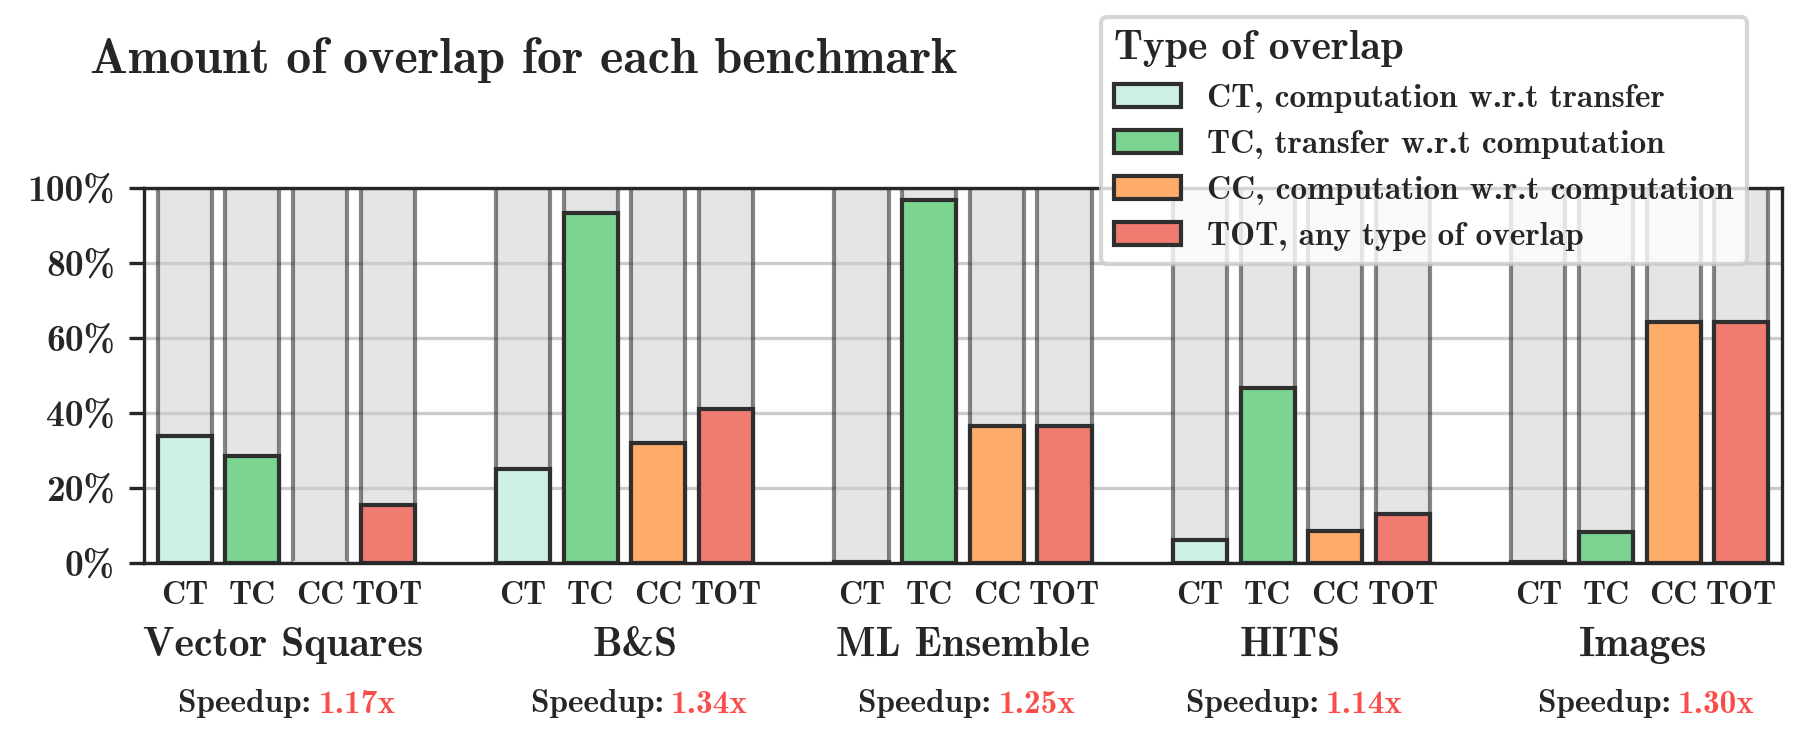
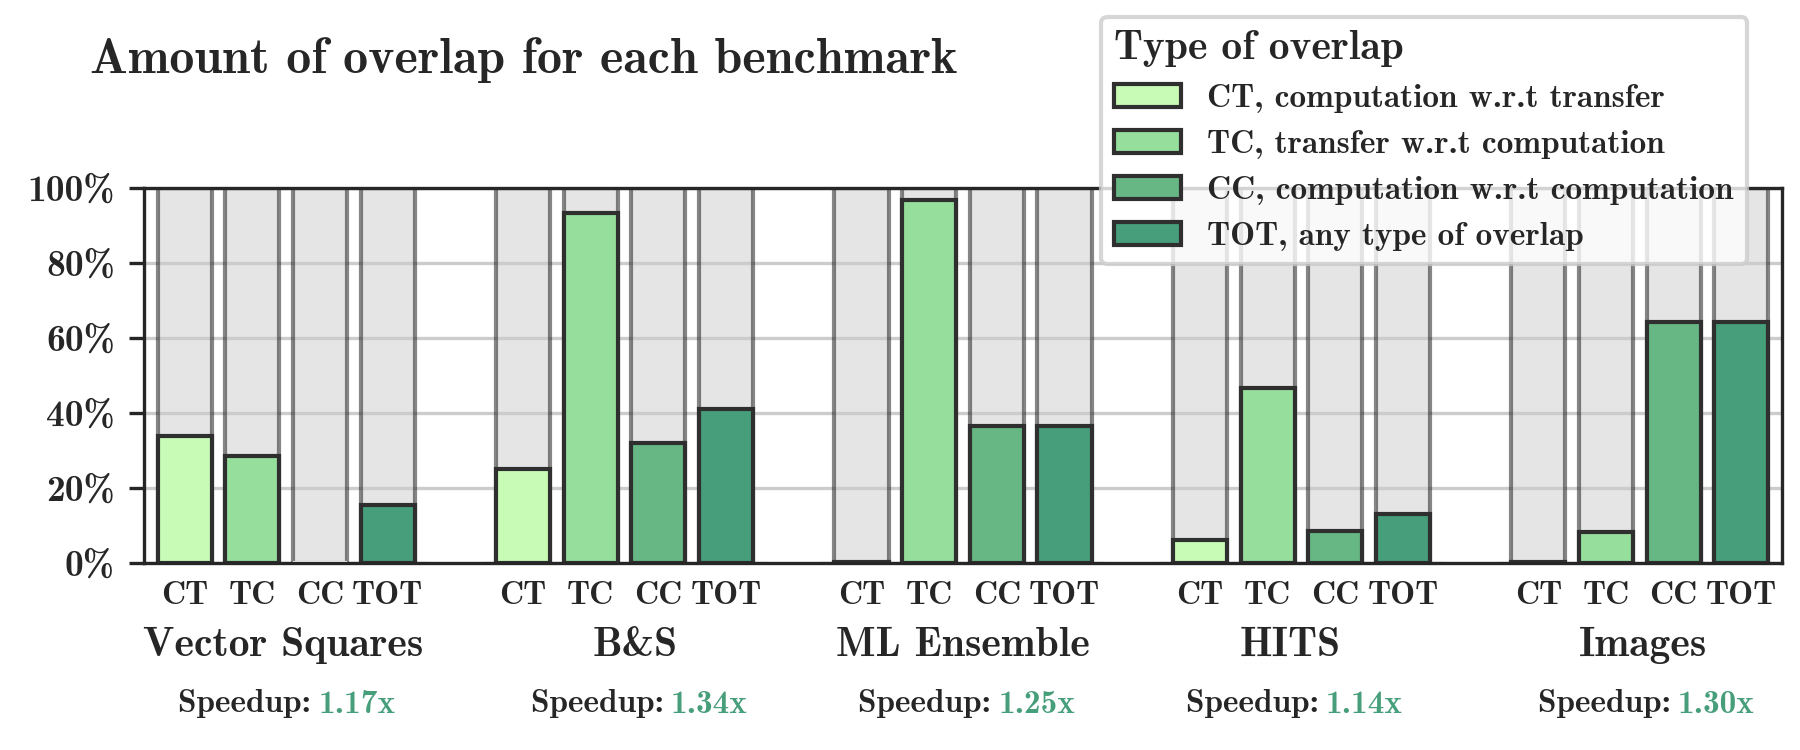
updated palette

diff --git a/projects/resources/python/plotting/plot_transfer_computation_overlap.py b/projects/resources/python/plotting/plot_transfer_computation_overlap.py
@@ -84,9 +84,10 @@ if __name__ == "__main__":
                     right=.99,
                     hspace=0.9,
                     wspace=0.0)
-
-    palette = (["#FFA728", "#FF9642", "#FFAB69", "#F07B71"] + ["#ffffff"]) * num_col
-    palette = ([COLORS["b3"], COLORS["b8"], COLORS["y3"], COLORS["r5"], COLORS["bb4"], COLORS["bb5"]][:len(LABEL_DICT) - 1] + ["#ffffff"]) * num_col
+    p = [COLORS["b3"], COLORS["b8"], COLORS["y3"], COLORS["r5"], COLORS["bb4"], COLORS["bb5"]]
+    # p = ["#FFEDAB", "#FFDB8C", "#FFC773", "#FFAF66"]
+    p = ["#C8FCB6", "#96DE9B", "#66B784", "#469E7B"]
+    palette = (p[:len(LABEL_DICT) - 1] + ["#ffffff"]) * num_col
     palette = palette[:len(x)]
     edgecolor = ["#ffffff" if (p == "#ffffff" or y[i] <= 0) else "#2f2f2f" for i, p in enumerate(palette)]
     
@@ -119,7 +120,7 @@ if __name__ == "__main__":
     for i, b in enumerate(BENCHMARK_NAMES):
         ax.annotate(f"{BENCHMARK_NAMES[b]}", xy=(get_x_label_pos(i), -0.25), fontsize=10, ha="center", xycoords="axes fraction")
         ax.annotate(f"Speedup: ", xy=(get_x_label_pos(i) - 0.02, -0.4), fontsize=8, ha="center", xycoords="axes fraction")
-        ax.annotate(f"{SPEEDUPS[b]:.2f}x", xy=(get_x_label_pos(i) + 0.045, -0.4), fontsize=8, ha="center", xycoords="axes fraction", color=COLORS["r1"])
+        ax.annotate(f"{SPEEDUPS[b]:.2f}x", xy=(get_x_label_pos(i) + 0.045, -0.4), fontsize=8, ha="center", xycoords="axes fraction", color="#469E7B")
         
     # Legend;  
     labels = [LABEL_LEGEND_DICT[l] for l in list(LABEL_DICT.keys())[:-1]]
